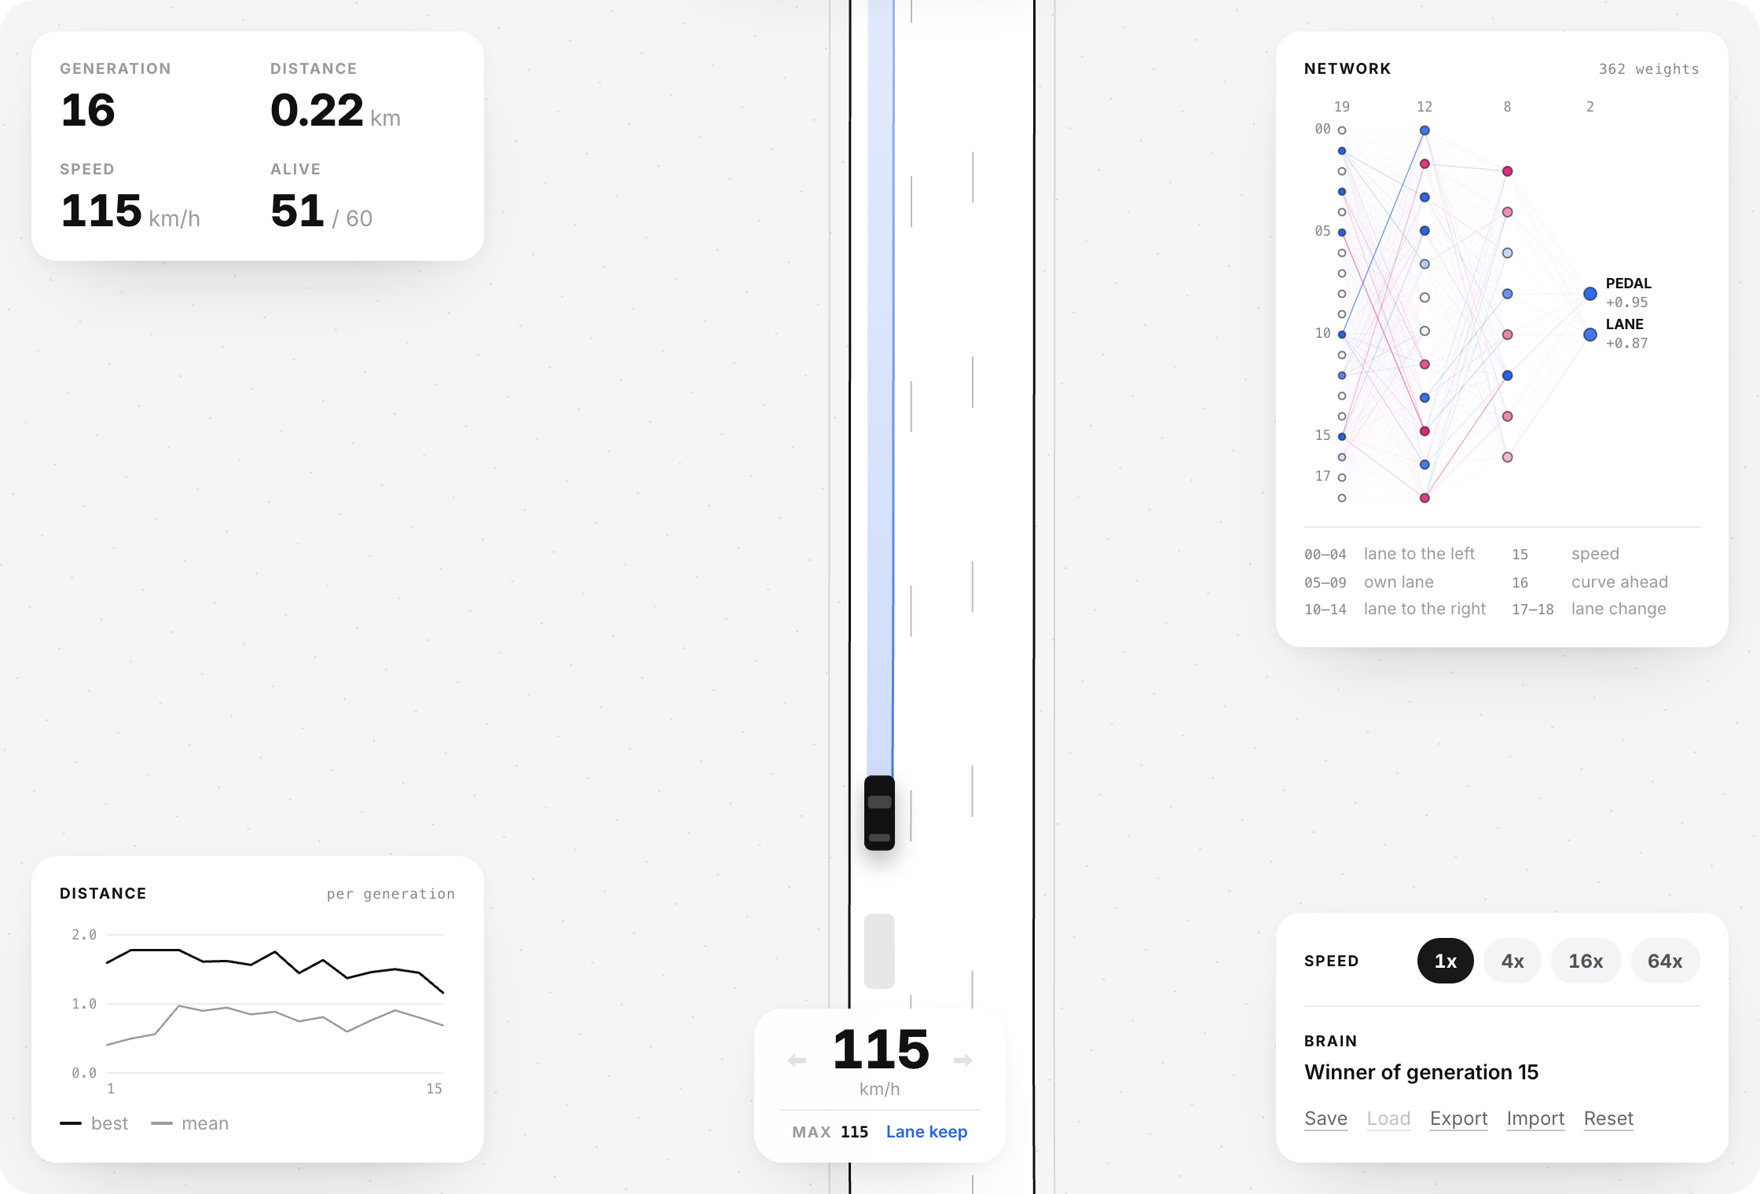
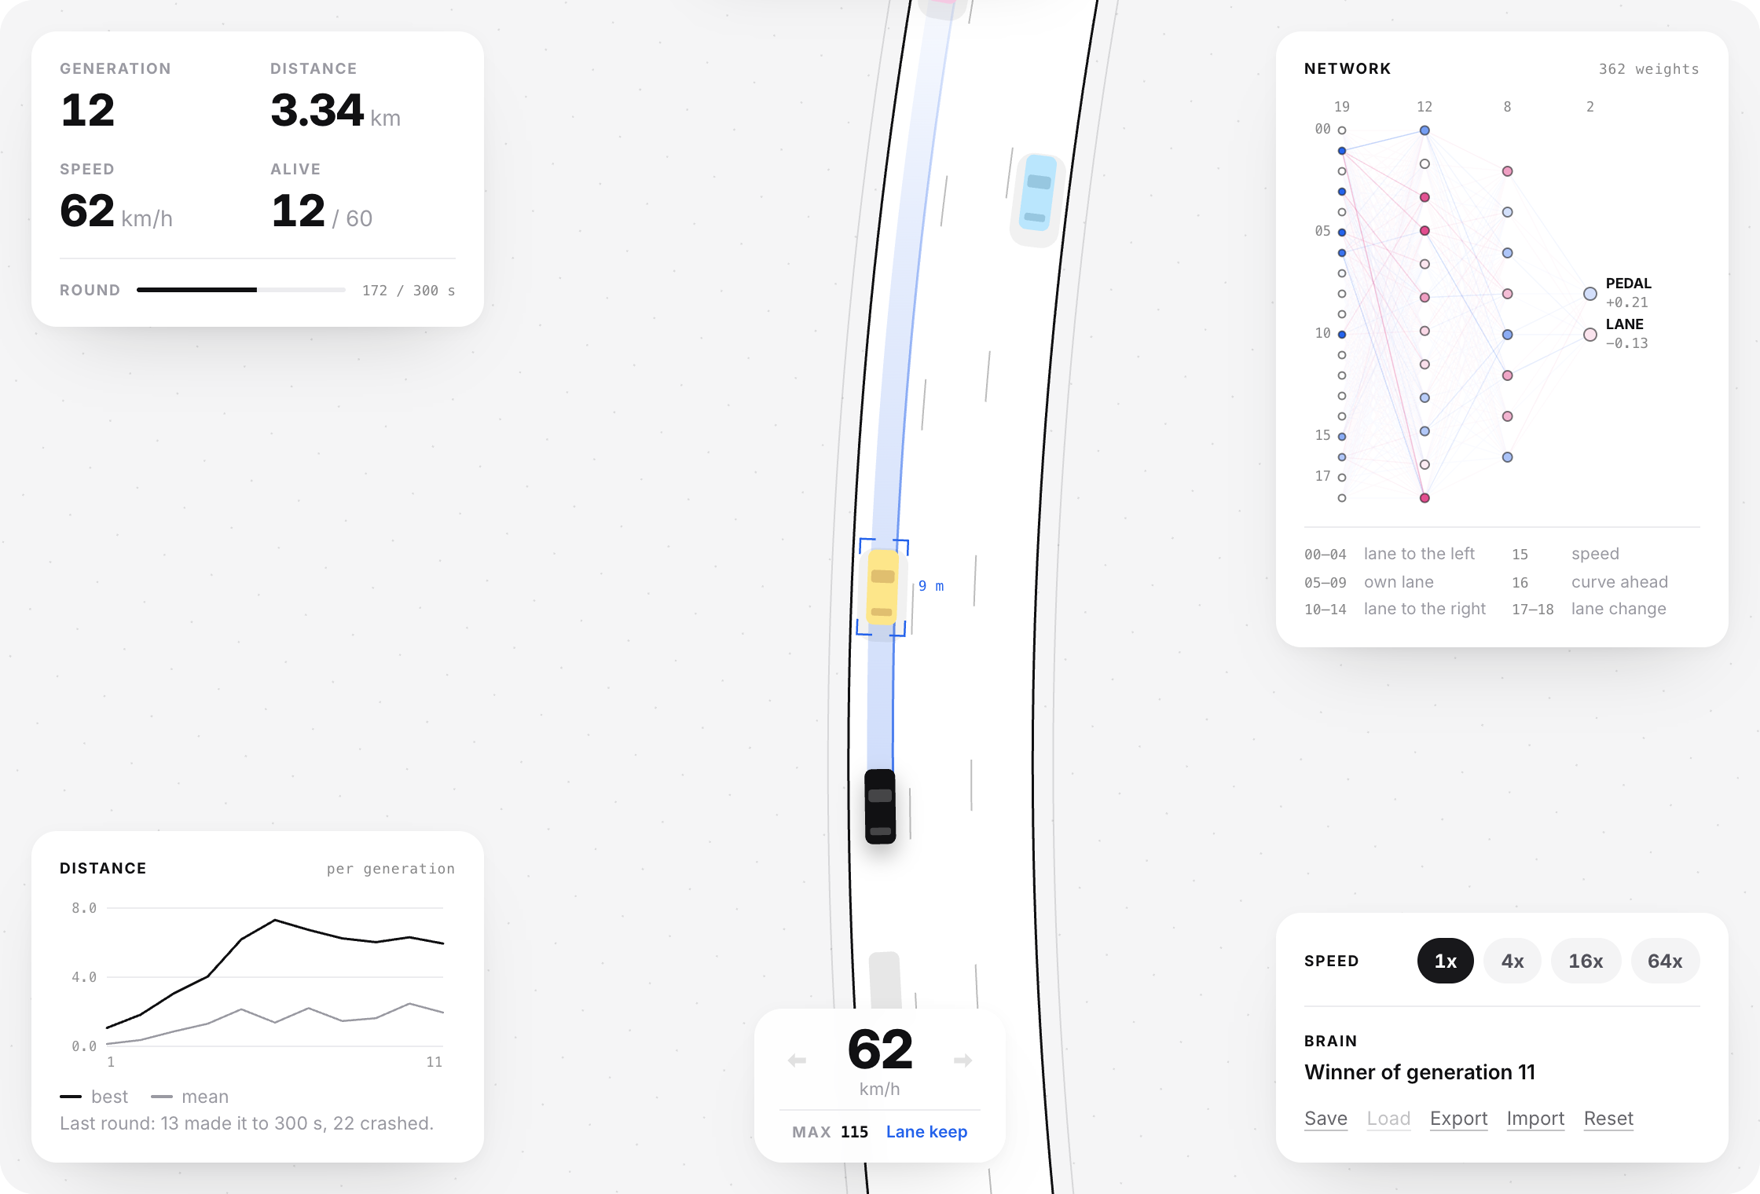
readme: how train mode rounds work, new screenshot

diff --git a/README.md b/README.md
@@ -214,6 +214,17 @@ traffic and 22 s on the current one. It signals and moves back after most
 overtakes; the rest of the time it holds the left lane through a gap it
 judges too short to be worth two lane changes.
 
+Train mode in the page evolves 60 cars from random weights on one road
+per generation, traffic fading in over the first fifteen. A round starts
+at 45 s and grows by half each time a car is still driving when it ends,
+up to five minutes, so early generations are quick and the chart isn't
+capped by the clock. Cars that crash stay on the road in red for a moment;
+the legend counts survivors and crashes for the last round. With six
+elites and mutation that anneals over about a dozen generations, the best
+car typically reaches 6 km within ten generations and the number of cars
+still driving at the end of a five-minute round climbs from a handful to
+around half the field by generation twenty.
+
 <p align="center">
   <img src=".github/assets/train.png" width="880" alt="Train mode: an in-browser run a few minutes in, with the best and mean distance per generation">
 </p>
